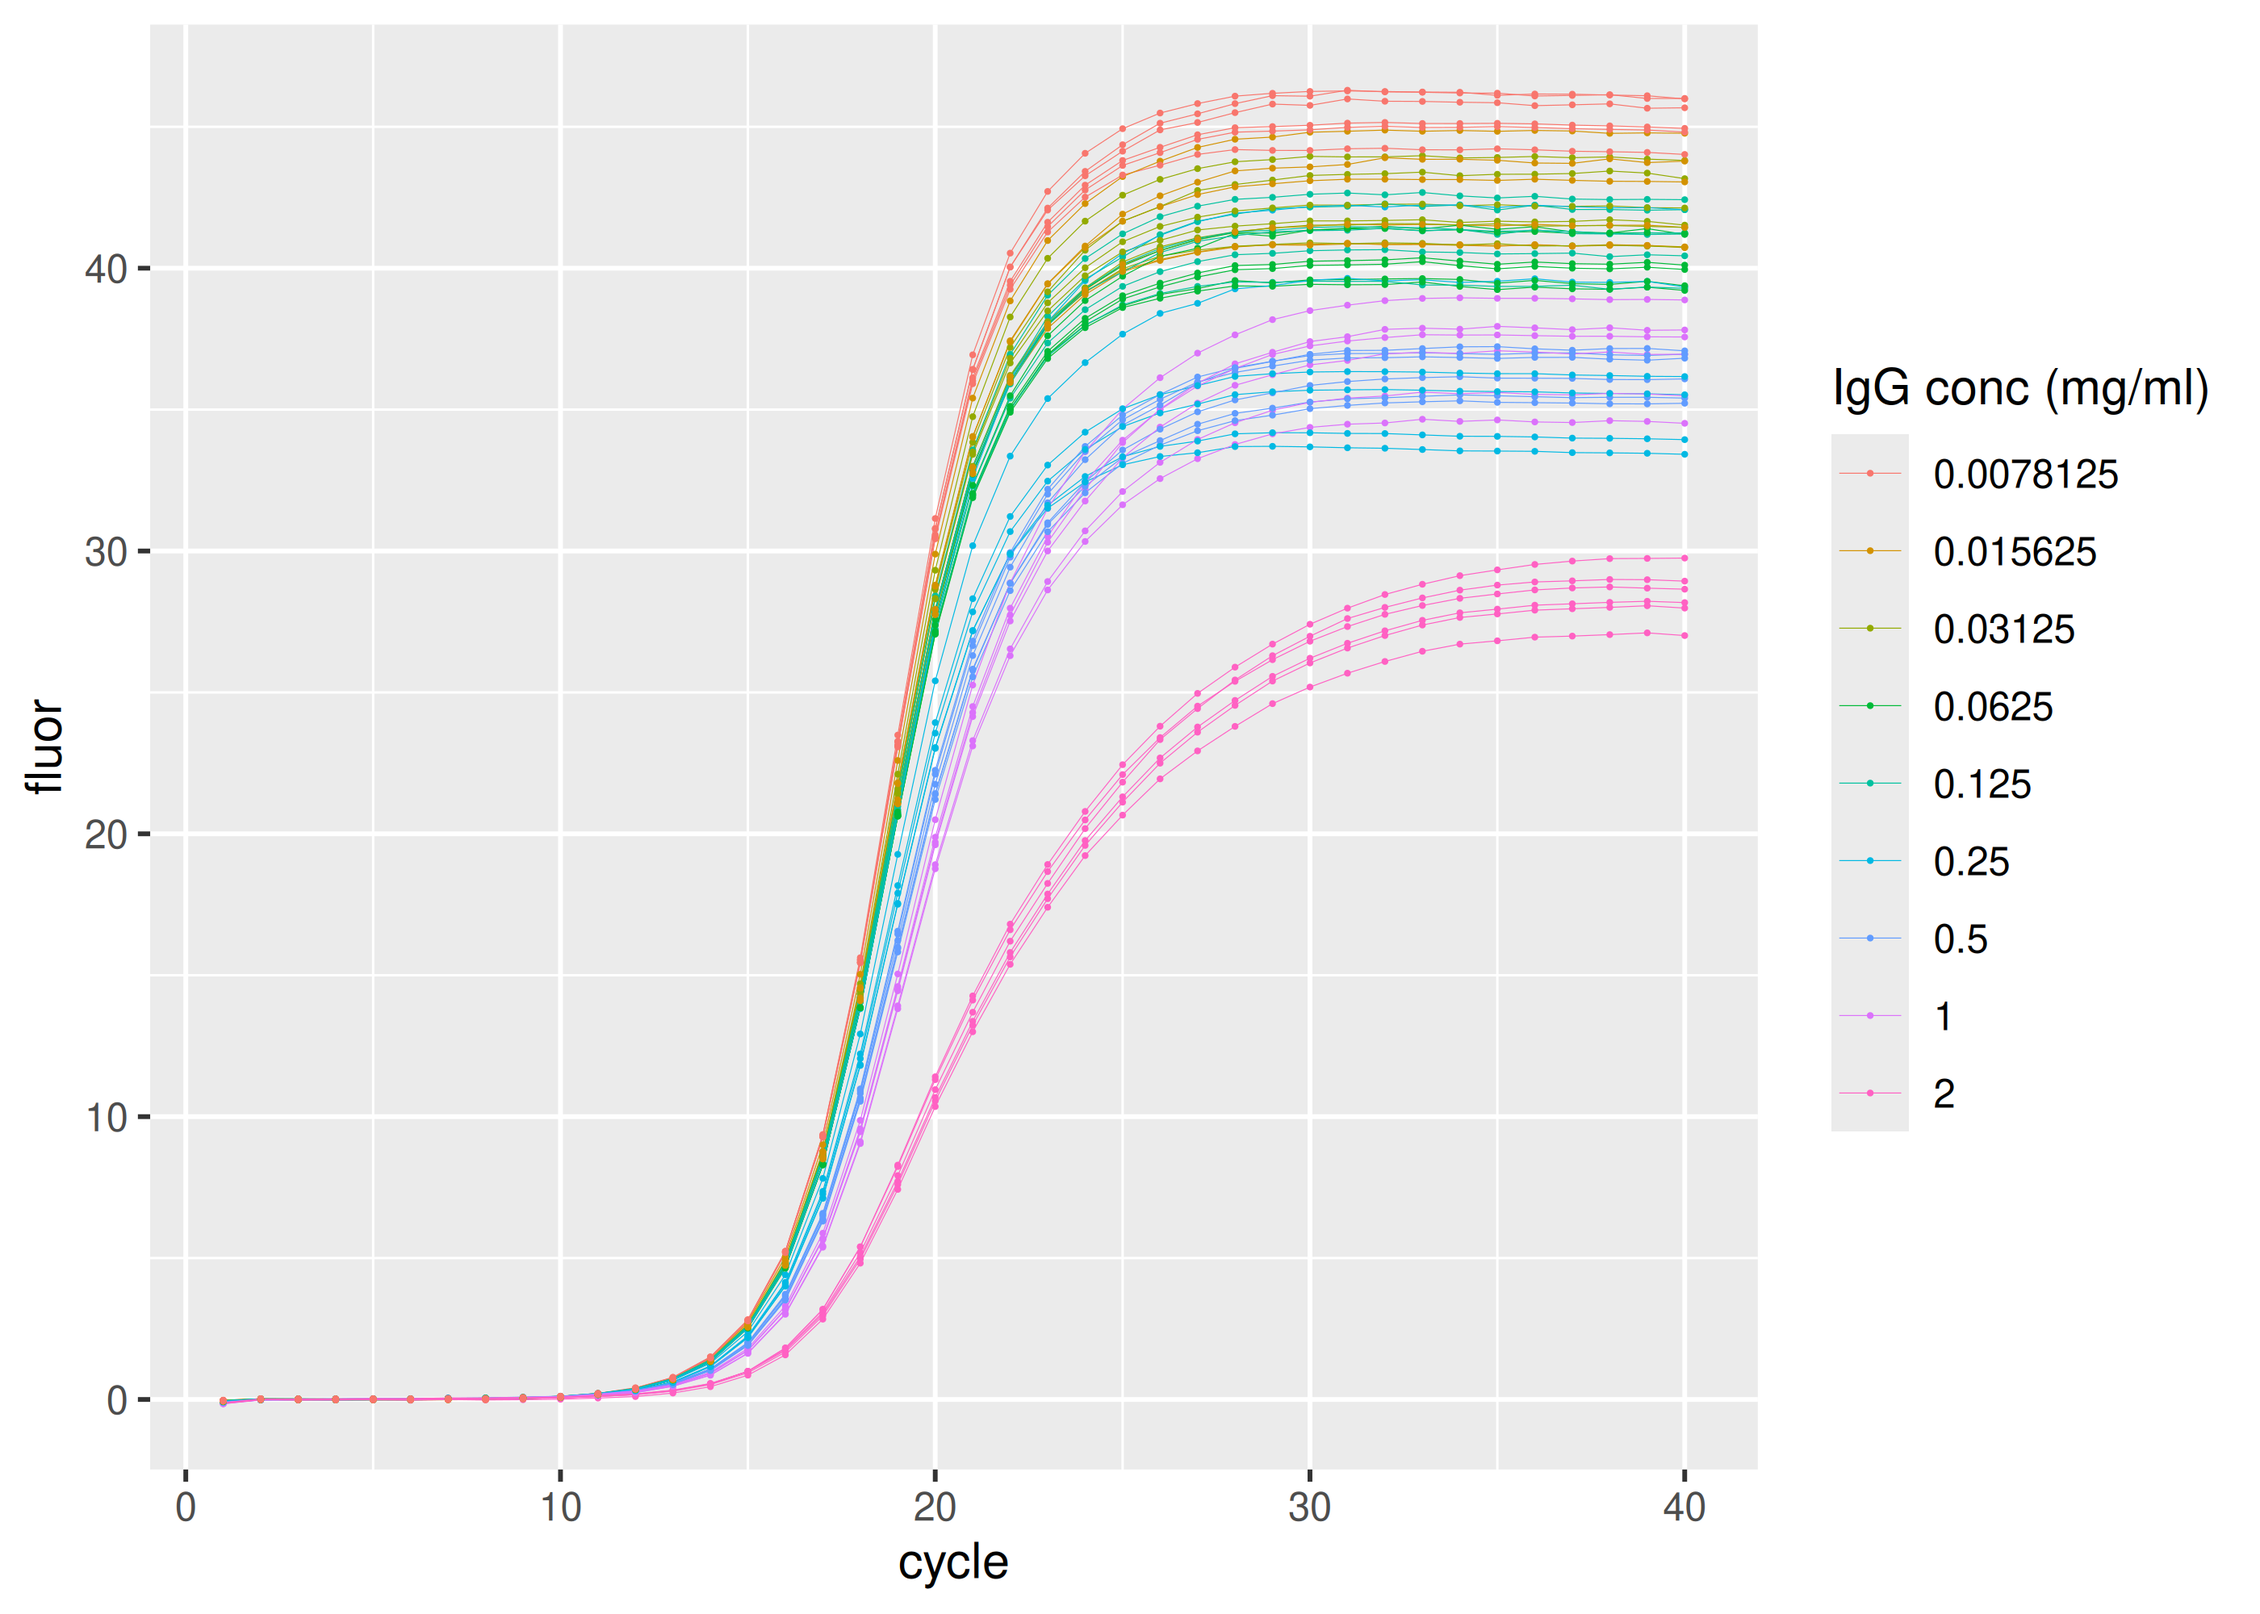
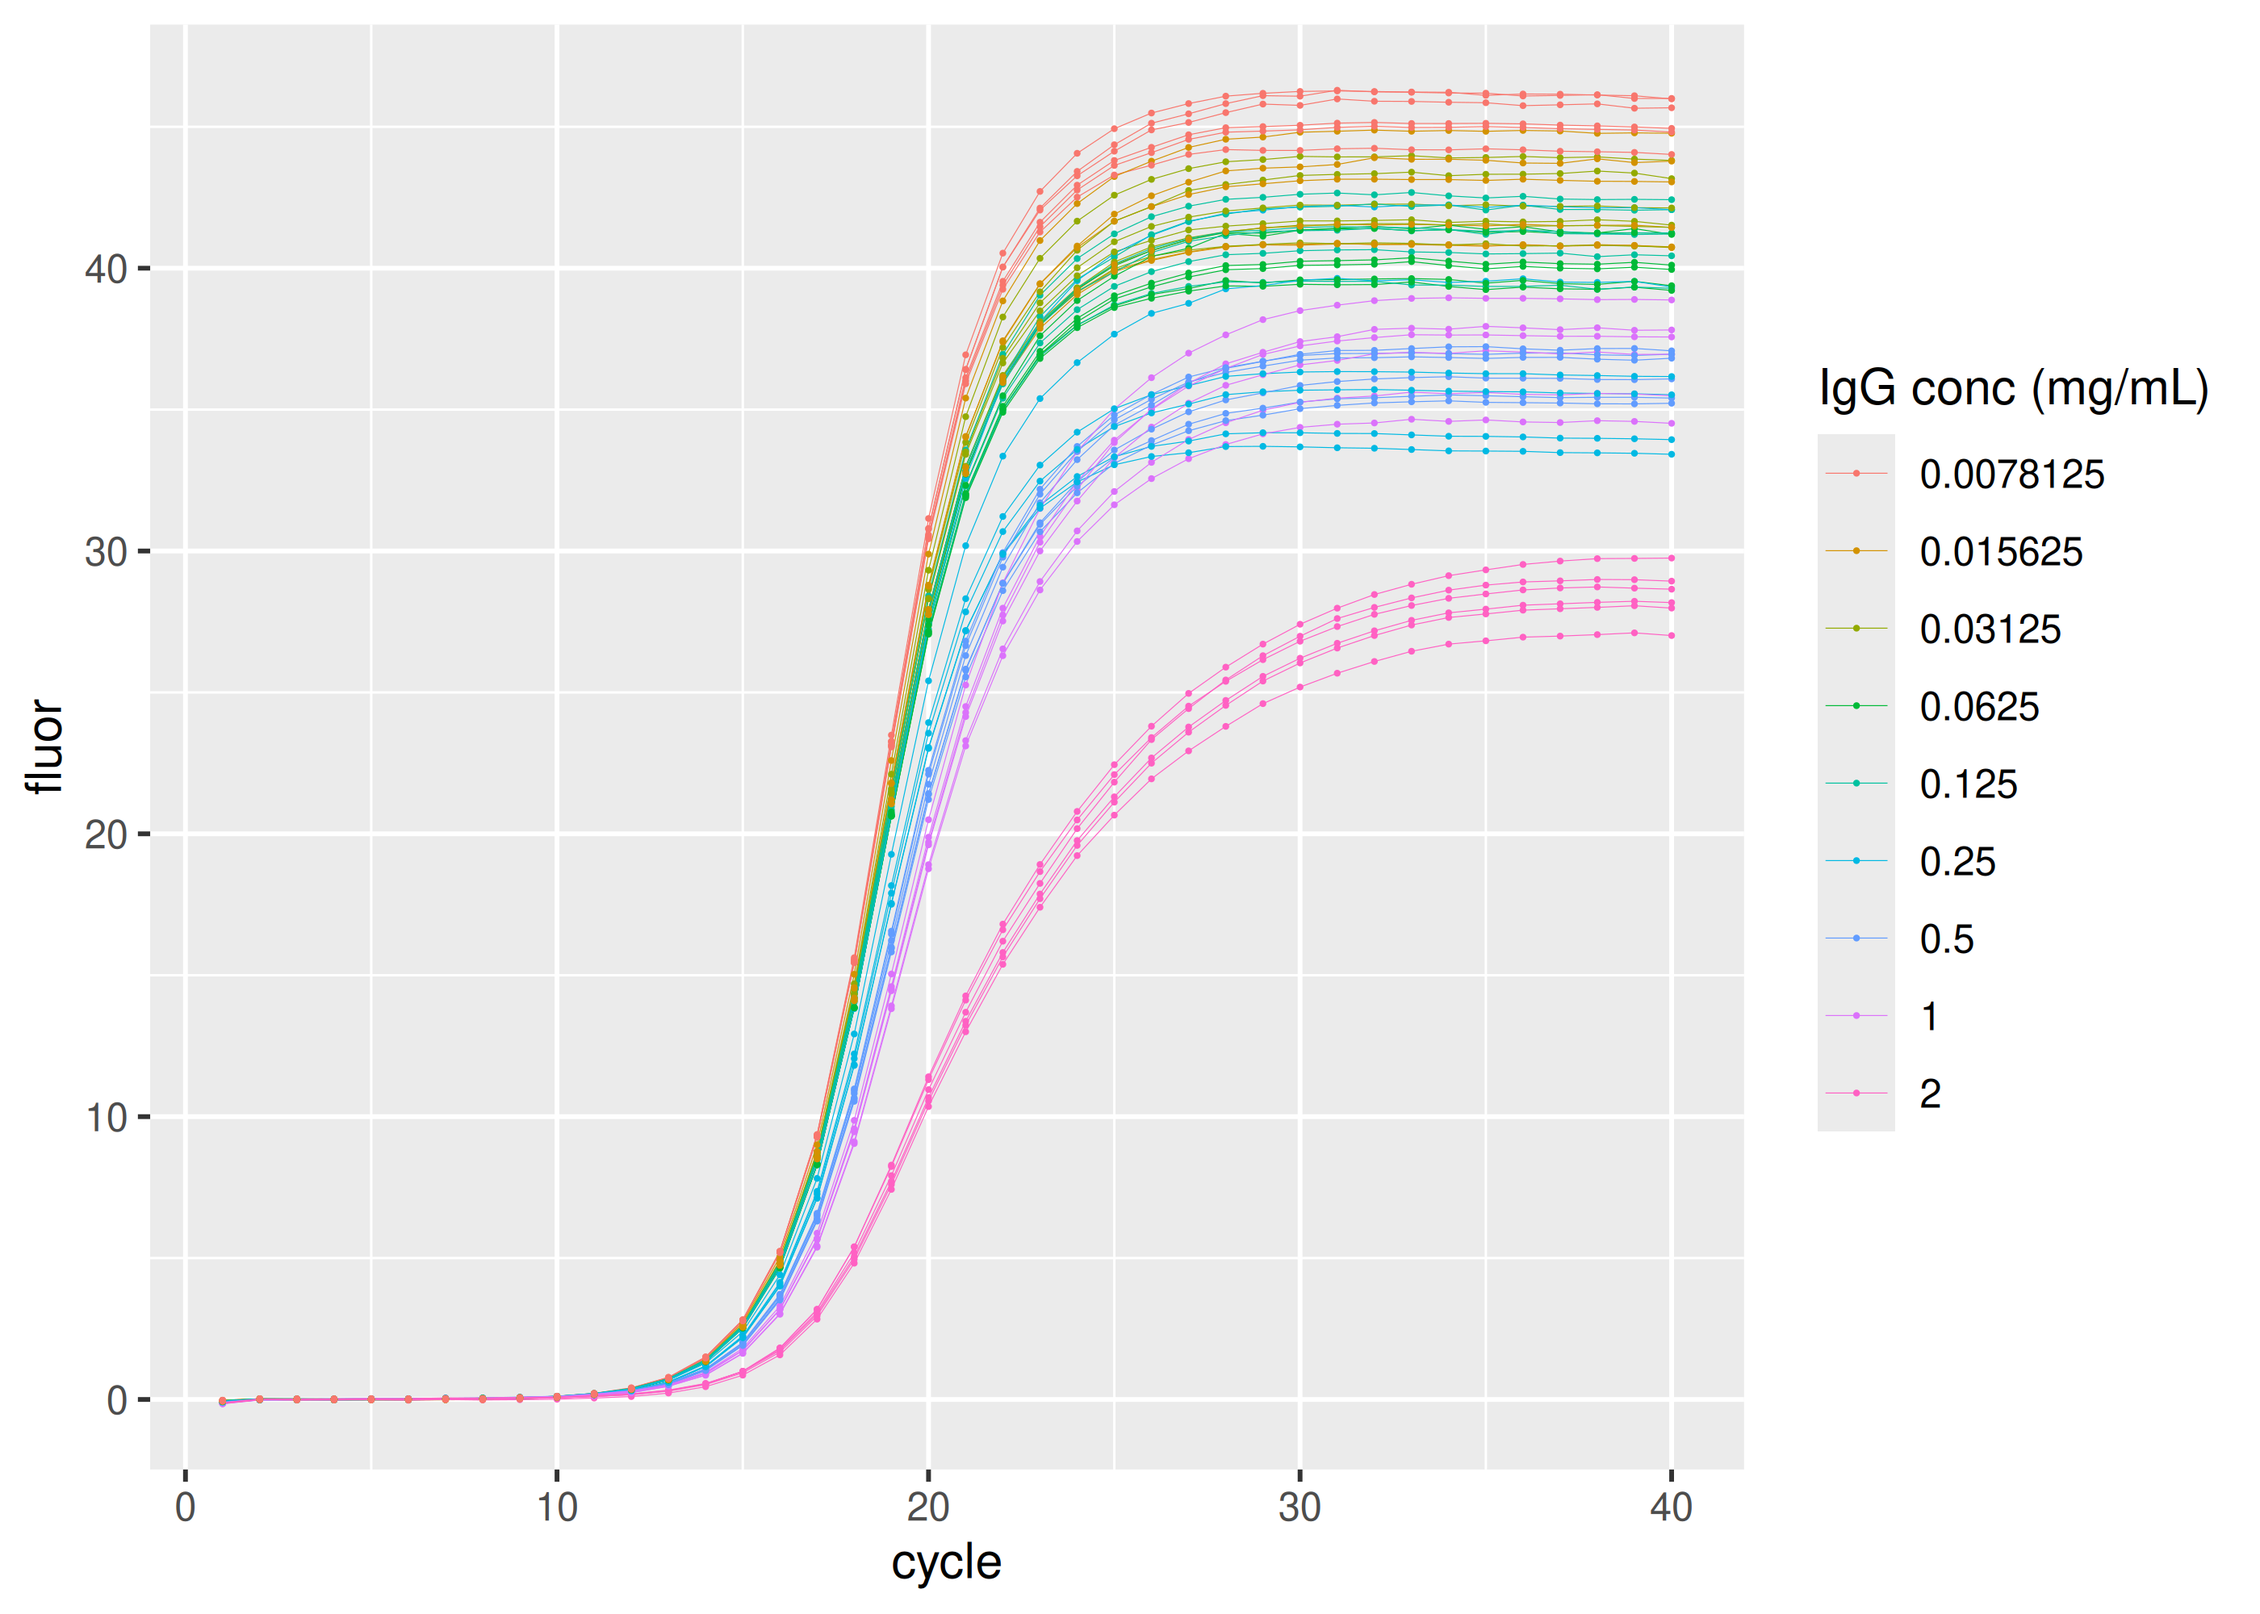
Fix typos

diff --git a/README.md b/README.md
@@ -162,7 +162,7 @@ sisti |>
   )) +
   geom_line(linewidth = 0.1) +
   geom_point(size = 0.05) +
-  labs(color = "Tannic acid conc (mg/ml)")
+  labs(color = "Tannic acid conc (mg/mL)")
 ```
 
 <img src="man/figures/README-unnamed-chunk-5-1.png" width="100%" />
@@ -180,7 +180,7 @@ sisti |>
   )) +
   geom_line(linewidth = 0.1) +
   geom_point(size = 0.05) +
-  labs(color = "IgG conc (mg/ml)")
+  labs(color = "IgG conc (mg/mL)")
 ```
 
 <img src="man/figures/README-unnamed-chunk-6-1.png" width="100%" />
@@ -198,7 +198,7 @@ sisti |>
   )) +
   geom_line(linewidth = 0.1) +
   geom_point(size = 0.05) +
-  labs(color = "Quercitin conc (mg/ml)")
+  labs(color = "Quercitin conc (mg/mL)")
 ```
 
 <img src="man/figures/README-unnamed-chunk-7-1.png" width="100%" />
